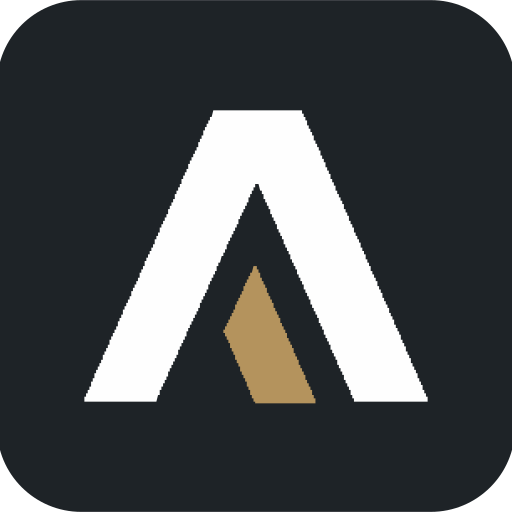
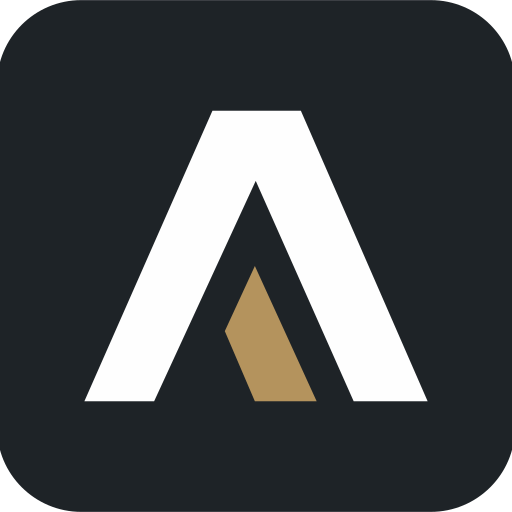
Smooth precision identity contours and regenerate shared assets

diff --git a/qa/BRAND-REVIEW.md b/qa/BRAND-REVIEW.md
@@ -1,6 +1,6 @@
 # Precision identity implementation
 
-The selected refined board is the primary geometry reference. Six heavy custom outlined glyphs were traced from its upper wordmark, retaining the y descender, angled terminals, open-bottom A and detached brass quadrilateral. The same A and inset paths are reused inside the rounded graphite icon. White/light and graphite/dark wordmarks differ only in lettering color; no font files or font dependency. Graphite #1E2327, brass #B4935D and white #FEFEFE are raster-derived approximations, not original authoritative vector tokens.
+The selected refined board is the primary geometry reference. Six heavy custom outlined glyphs were reconstructed from its upper wordmark with smooth Bezier contours and straight-edge A/inset polygons, retaining the y descender, angled terminals, open-bottom A and detached brass quadrilateral. The initial literal raster staircase contours were rejected by independent visual review and replaced; Library version1 supersedes version0. The same A and inset paths are reused inside the rounded graphite icon. White/light and graphite/dark wordmarks differ only in lettering color; no font files or font dependency. Graphite #1E2327, brass #B4935D and white #FEFEFE are raster-derived approximations, not original authoritative vector tokens.
 
 Shared package `SyncAI-precision-brand-v1.zip` is saved privately in Library. It includes native SVG sources, transparent compatibility PNG, ICO16/32/48, PNG16/32/48/180/192/512, generic social mark, provenance manifest and checksums. Consumer must materialize via current Library flow and verify readable local bytes/checksums. No PWA manifest or behavior added. Website social preview additionally retains its existing governed-industrial-intelligence title and evidence tagline around the new mark.
 
@@ -9,3 +9,5 @@ Shared BrandWordmark powers desktop/mobile header and footer, with accessible ho
 Checks: manifest hashes, no external/font/script/image references in SVG, identical A/inset geometry, icon dimensions and ICO frames. Small-size review confirms distinct brass/white pixels at16/32/48; minimum pixel-center separation2.0/2.83/4.12. Build includes contact/resource/link/brand regressions. Local browser checks header and footer decoding, layout, social/icon metadata, mobile menu, direct ICO and legacy social URL, and every shared asset checksum across desktop/tablet/mobile widths. Initial footer decoding assertion ran before lazy footer entered viewport; test corrected to scroll into footer and wait for decode. During social composition preservation an outdated generic-image equality assertion failed; corrected to the site-specific1200×630 composition, followed by complete rebuild and rendered rerun.
 
 Exact-head independent review and READY preview validation are publication gates. Existing untracked Supabase CLI cache preserved. No emails or leads sent.
+
+Smooth repair requalification: full original local build and rendered25 cases passed before asset repair; repaired asset manifests/regressions/lint/typecheck pass separately. A fresh local rebuild is intentionally not run with only221MiB free; exact repaired cloud build and hosted pixel review are required. Shared master white-silhouette overlap metric97.60% against thresholded primary raster; this supports geometry comparison and does not replace independent visual review.
